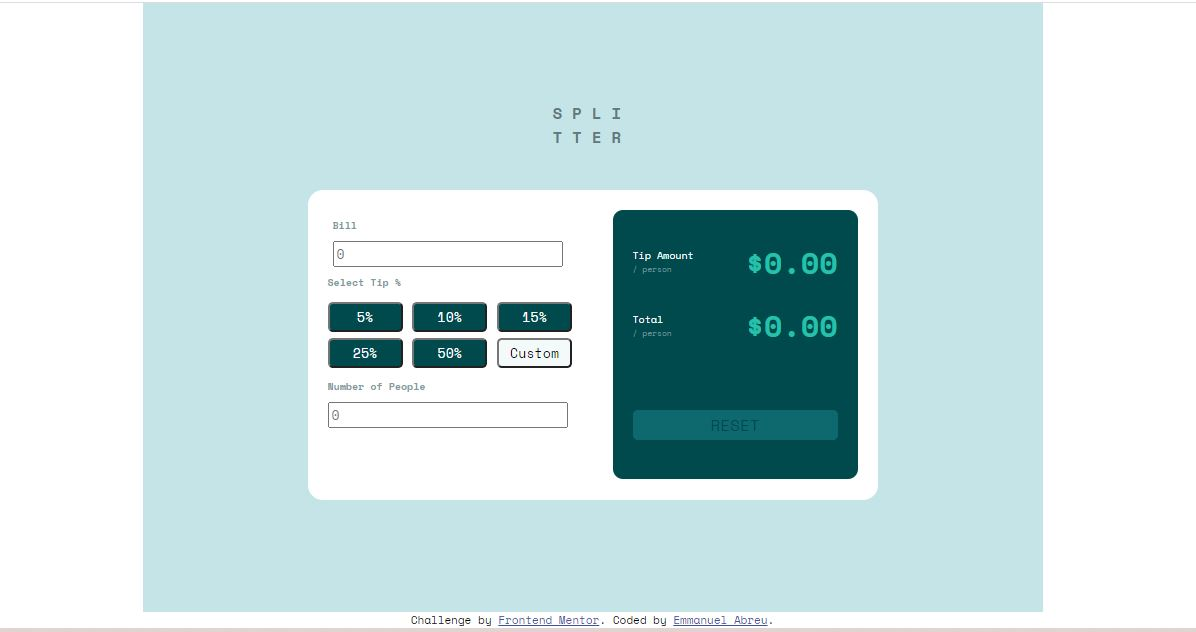
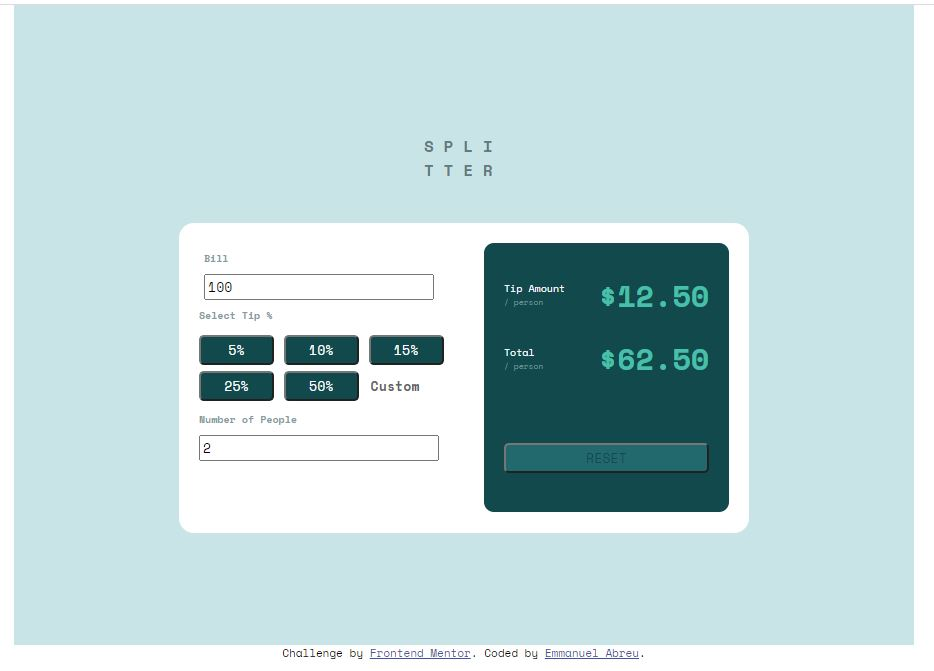
modified functionality

diff --git a/js/script.js b/js/script.js
@@ -64,13 +64,18 @@ function getVal(element)
     return document.querySelector(element.value);
 }
 
-function calcTipSplitter(bill, numberOfPeople, tipPercentage)
-{
-    let tipPerPerson = (bill * tipPercentage) / numberOfPeople;
-    let totalPerPerson = (bill / numberOfPeople ) + tipPerPerson;
-    console.log(tipPerPerson);
-    console.log(totalPerPerson);
-}
+// function calcTipSplitter(bill, numberOfPeople, tipPercentage)
+// {
+//     let tipPerPerson = parseFloat((bill * tipPercentage) / numberOfPeople);
+//     let totalPerPerson = parseFloat((bill / numberOfPeople ) + tipPerPerson);
+//     if (!isFinite())
+//     {
+//         document.querySelector(".tip-calculation").querySelector(".calc-display").innerText = "$0.00";
+//         document.querySelector(".total-calculation").querySelector(".calc-display").innerText = "$0.00";
+//     }
+//     console.log(tipPerPerson.toFixed(2));
+//     console.log(totalPerPerson.toFixed(2));
+// }
 
 function tipPerPerson(bill, numberOfPeople, tipPercentage)
 {
@@ -84,32 +89,56 @@ function totalPerPerson(bill, numberOfPeople, tipPercentage)
 
 const bill = document.getElementById("bill-input");
 const numPeople = document.getElementById("people-input");
-const tipPercentage = document.querySelectorAll("tip-percent-btn custom-btn");
-console.log(bill.value);
 
-// tipPercentage.addEventListener("onclick", function(tipPercentage)
-// {
-//     const tipVal = parseFloat(tipPercentage.innerText);
-// });
-
-
-console.log(bill.value);
-bill.addEventListener("change", function(bill)
+bill.addEventListener("change", function()
 {
+    document.querySelector(".tip-calculation").querySelector(".calc-display").innerText = "$0.00";
+    document.querySelector(".total-calculation").querySelector(".calc-display").innerText = "$0.00";
+
     const billVal = parseFloat(bill.value);
-    console.log(billVal);
-
+    
+    console.log("bill input: ", billVal);
 });
 
-const numberOfPeople = document.getElementById("people-input");
-console.log(numberOfPeople);
-
-numberOfPeople.addEventListener("change", function(numberOfPeople)
+numPeople.addEventListener("change", function()
 {
-    const peopleVal = parseInt(numberOfPeople.innerText);
-    console.log(peopleVal);
+
+    const peopleVal = parseFloat(numPeople.value);
+    console.log("people input: ", peopleVal);
 });
 
-document.querySelector("tip-calculation").querySelector("calc-display").innerText = tipPerPerson(bill, numPeople, .5);
-console.log(tipPerPerson.value);
-document.querySelector("total-calculation").querySelector("calc-display").innerText = totalPerPerson(bill, numPeople, .5);
+let buttons = document.querySelectorAll(".tipPerBtn");
+
+buttons.forEach((button) => 
+{
+    button.addEventListener("click", function()
+    {
+        let tipPercent = button.dataset.num / 100;
+        
+        document.querySelector(".tip-calculation").querySelector(".calc-display").innerHTML = "$" + parseFloat(tipPerPerson(bill.value, numPeople.value, tipPercent)).toFixed(2);
+        document.querySelector(".total-calculation").querySelector(".calc-display").innerHTML = "$" + parseFloat(totalPerPerson(bill.value, numPeople.value, tipPercent)).toFixed(2);
+    }
+)});
+
+const custom = document.querySelector(".cusButton");
+
+custom.addEventListener("change", function()
+    {
+        let tipPercent = custom.value / 100;
+        console.log(tipPercent);
+        const val = parseFloat(custom.value);
+        document.querySelector(".tip-calculation").querySelector(".calc-display").innerHTML = "$" + parseFloat(tipPerPerson(bill.value, numPeople.value, tipPercent)).toFixed(2);
+        document.querySelector(".total-calculation").querySelector(".calc-display").innerHTML = "$" + parseFloat(totalPerPerson(bill.value, numPeople.value, tipPercent)).toFixed(2);
+    }
+);
+
+const reset = document.querySelector(".reset-btn");
+
+reset.addEventListener("click", function()
+{
+    let tipPercent = 0;
+    document.querySelector(".tip-calculation").querySelector(".calc-display").innerHTML = "$" + parseFloat(tipPerPerson(bill.value, numPeople.value, tipPercent)).toFixed(2);
+    document.querySelector(".total-calculation").querySelector(".calc-display").innerHTML = "$" + parseFloat(totalPerPerson(bill.value, numPeople.value, tipPercent)).toFixed(2);
+    console.log("$" + parseFloat(tipPerPerson(bill.value, numPeople.value, tipPercent)).toFixed(2))
+
+});

diff --git a/index.html b/index.html
@@ -34,12 +34,12 @@
         </div>
         <div class="tip-container">
           <h2>Select Tip %</h2>
-          <button class="tip-percent-btn">5%</button>
-          <button class="tip-percent-btn">10%</button>
-          <button class="tip-percent-btn">15%</button>
-          <button class="tip-percent-btn">25%</button>
-          <button class="tip-percent-btn">50%</button>
-          <button class="custom-percent-btn">Custom</button>
+          <button id="1" data-num="5" class="tipPerBtn">5%</button>
+          <button id="2" data-num="10" class="tipPerBtn">10%</button>
+          <button id="3" data-num="15" class="tipPerBtn">15%</button>
+          <button id="4" data-num="25" class="tipPerBtn">25%</button>
+          <button id="5" data-num="50" class="tipPerBtn">50%</button>
+          <input type="text" id="6" class="cusButton" placeholder="Custom"></input>
         </div>
         <h2>Number of People</h2>
         <div class="people-input">
@@ -56,7 +56,7 @@
             <h2>Total <div class="smaller-calc-text">/ person</div></h2>
             <div class="calc-display">$0.00</div>
           </div>
-          <div class="reset-btn">RESET</div>
+          <button class="reset-btn">RESET</button>
         </div>
       </div>
     </div>

diff --git a/css/style.css b/css/style.css
@@ -97,26 +97,33 @@ h4
     font-size: 11px;
 }
 
-.tip-percent-btn
+.tipPerBtn
 {
     justify-content: space-around space-between;
     background-color: hsl(183deg 100% 15%);
-    color: white;
+    color: rgb(255, 255, 255);
     width: 75px;
     height: 30px;
     margin: 3px 0px;
     border-radius: 5px;
 }
 
-.custom-percent-btn
+.cusButton
 {
-    background-color: hsl(189, 41%, 97%);
-    color: hsl(184, 14%, 56%);
-    width: 75px;
-    height: 30px;
-    color: black;
-    border-radius: 5px;
+    justify-content: center;
+    align-items: center;
+    background-color: #FFF;
+    color: #FFF;
+    width: 71px;
+    height: 28px;
     margin: 3px 0px;
+    border-radius: 5px black solid;
+    border: 0;
+}
+
+.cusButton::placeholder{
+    color: rgb(99, 99, 99);
+    font-weight: 600;
 }
 
 .num-people-container
